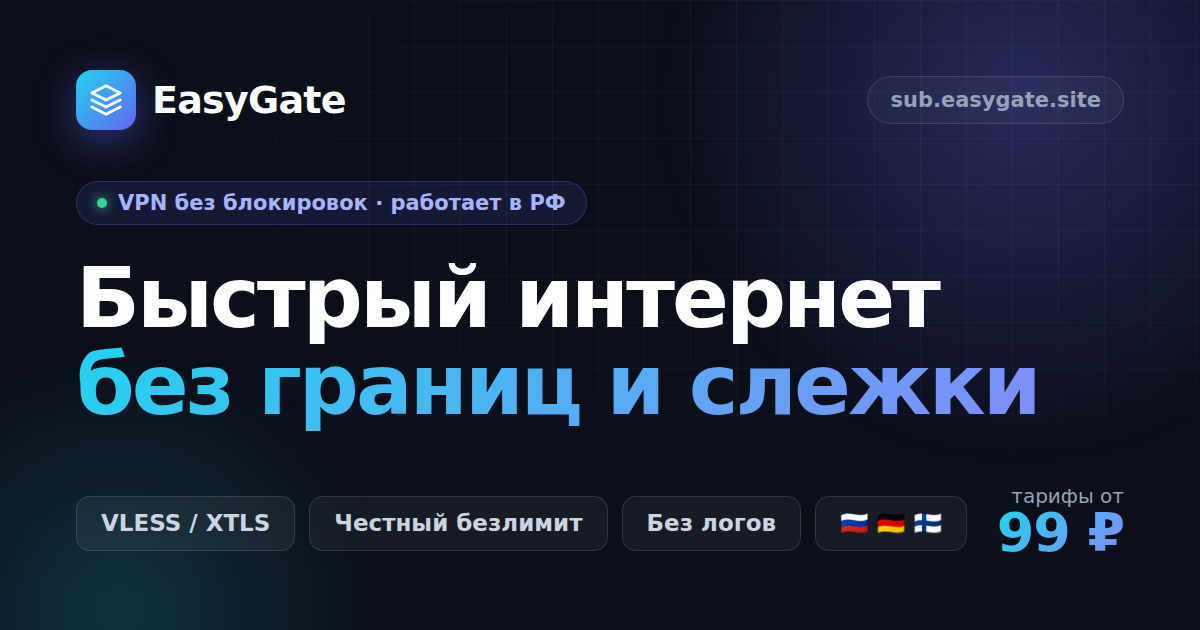
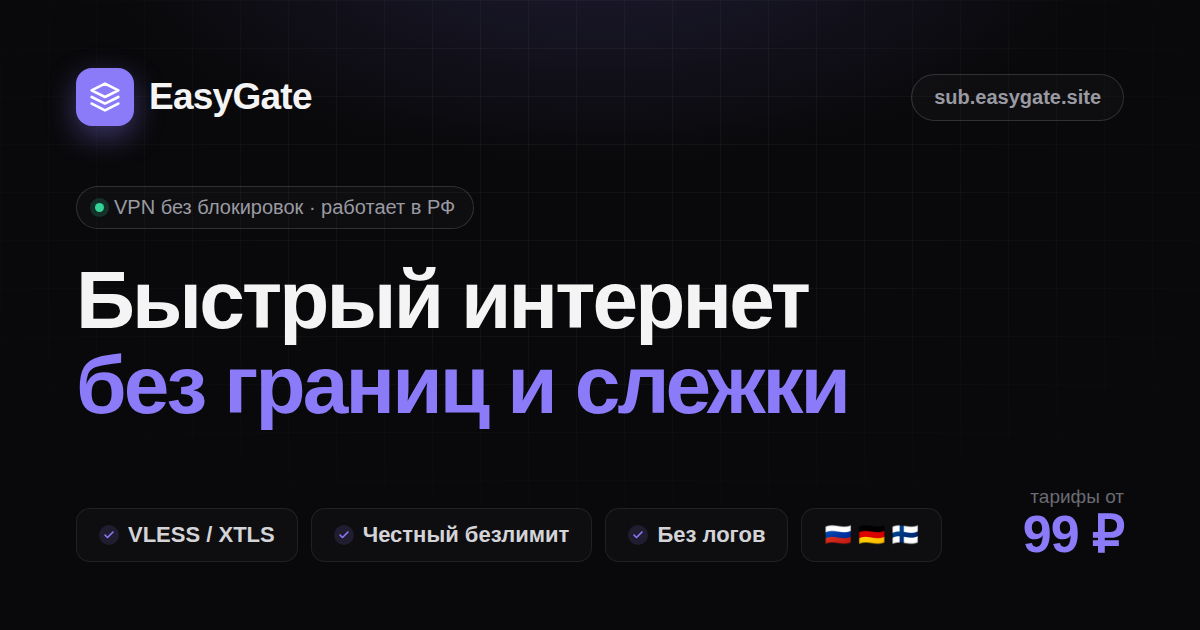
Match preview image to real brand colors
Rebuild OG image with EasyGate's actual palette from style.css: accent
violet #8b7bf9, bg #09090b, top violet glow. Fix theme-color meta to
#09090b to match the real background.

https://claude.ai/code/session_018jLb6AeSNFeTDCxsCfbdai

diff --git a/index.html b/index.html
@@ -9,7 +9,7 @@
     <meta name="description" content="EasyGate — быстрый и приватный VPN для России на протоколе VLESS/XTLS. Стабильное соединение, честный безлимит, без логов. Подключение за минуту, оплата картой РФ. Тарифы от 99 ₽/мес.">
     <meta name="keywords" content="VPN для России, ВПН, обход блокировок, VLESS, XTLS, купить VPN, быстрый VPN, VPN без логов, EasyGate">
     <meta name="robots" content="index, follow, max-image-preview:large">
-    <meta name="theme-color" content="#0b0f1a">
+    <meta name="theme-color" content="#09090b">
     <meta name="author" content="EasyGate">
     <link rel="canonical" href="https://sub.easygate.site/">
     <link rel="icon" type="image/svg+xml" href="/favicon.svg">
